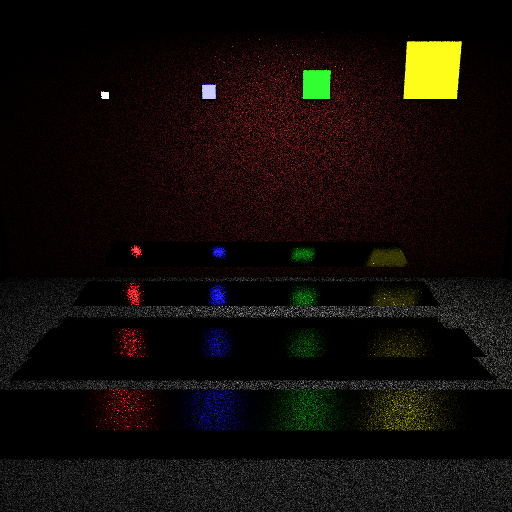
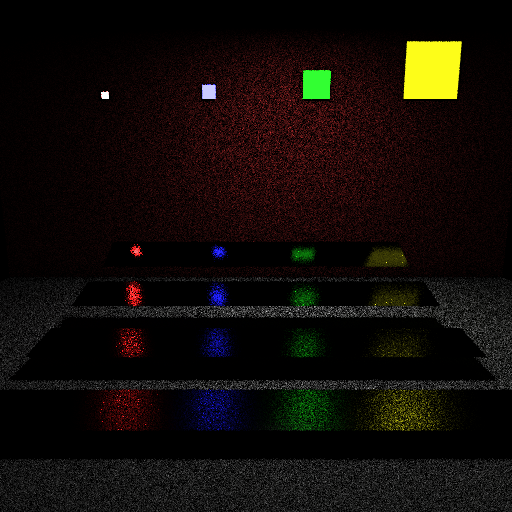
Using power instead of balance heuristics

diff --git a/rt/src/rt/integrators/AreaLightIntegrator.java b/rt/src/rt/integrators/AreaLightIntegrator.java
@@ -61,11 +61,11 @@ public class AreaLightIntegrator implements Integrator {
 			
 			float sumP = 0;
 			for (SpectrumWrapper wrapper : samples){
-				sumP += wrapper.p;
+				sumP += wrapper.p*wrapper.p;
 			}
 			float totalWeight = 0;
 			for (SpectrumWrapper wrapper : samples){
-				float weight = wrapper.p/sumP;
+				float weight = (wrapper.p*wrapper.p)/sumP;
 				
 				weight = Float.isNaN(weight) ? 0 : weight;
 				totalWeight += weight;
